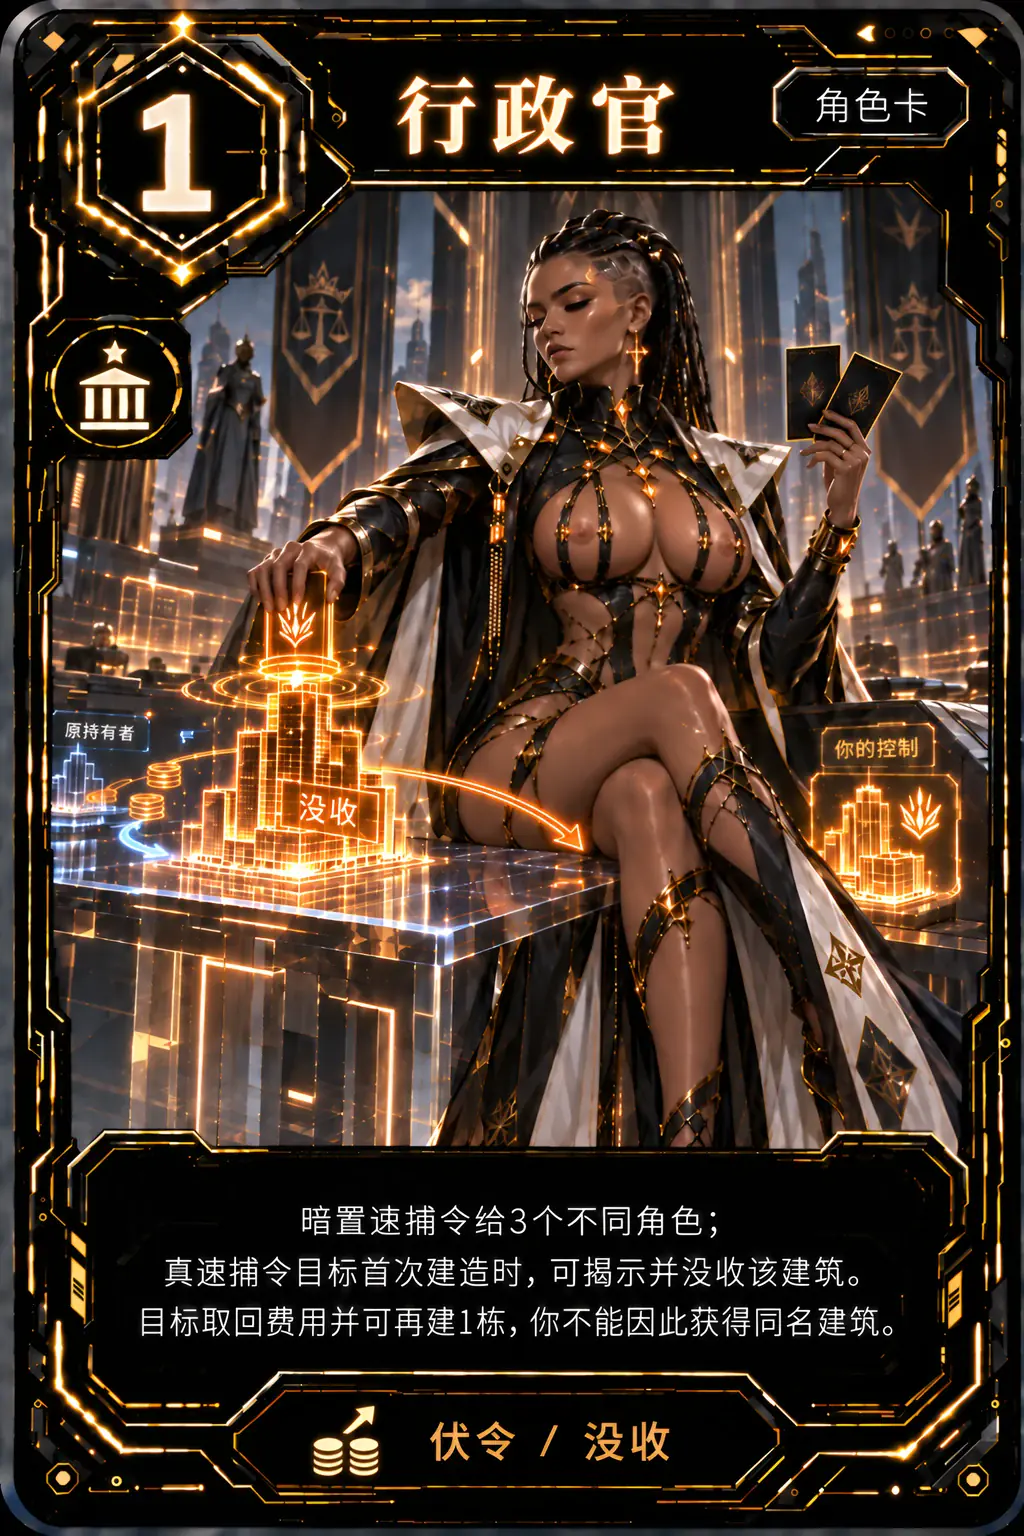
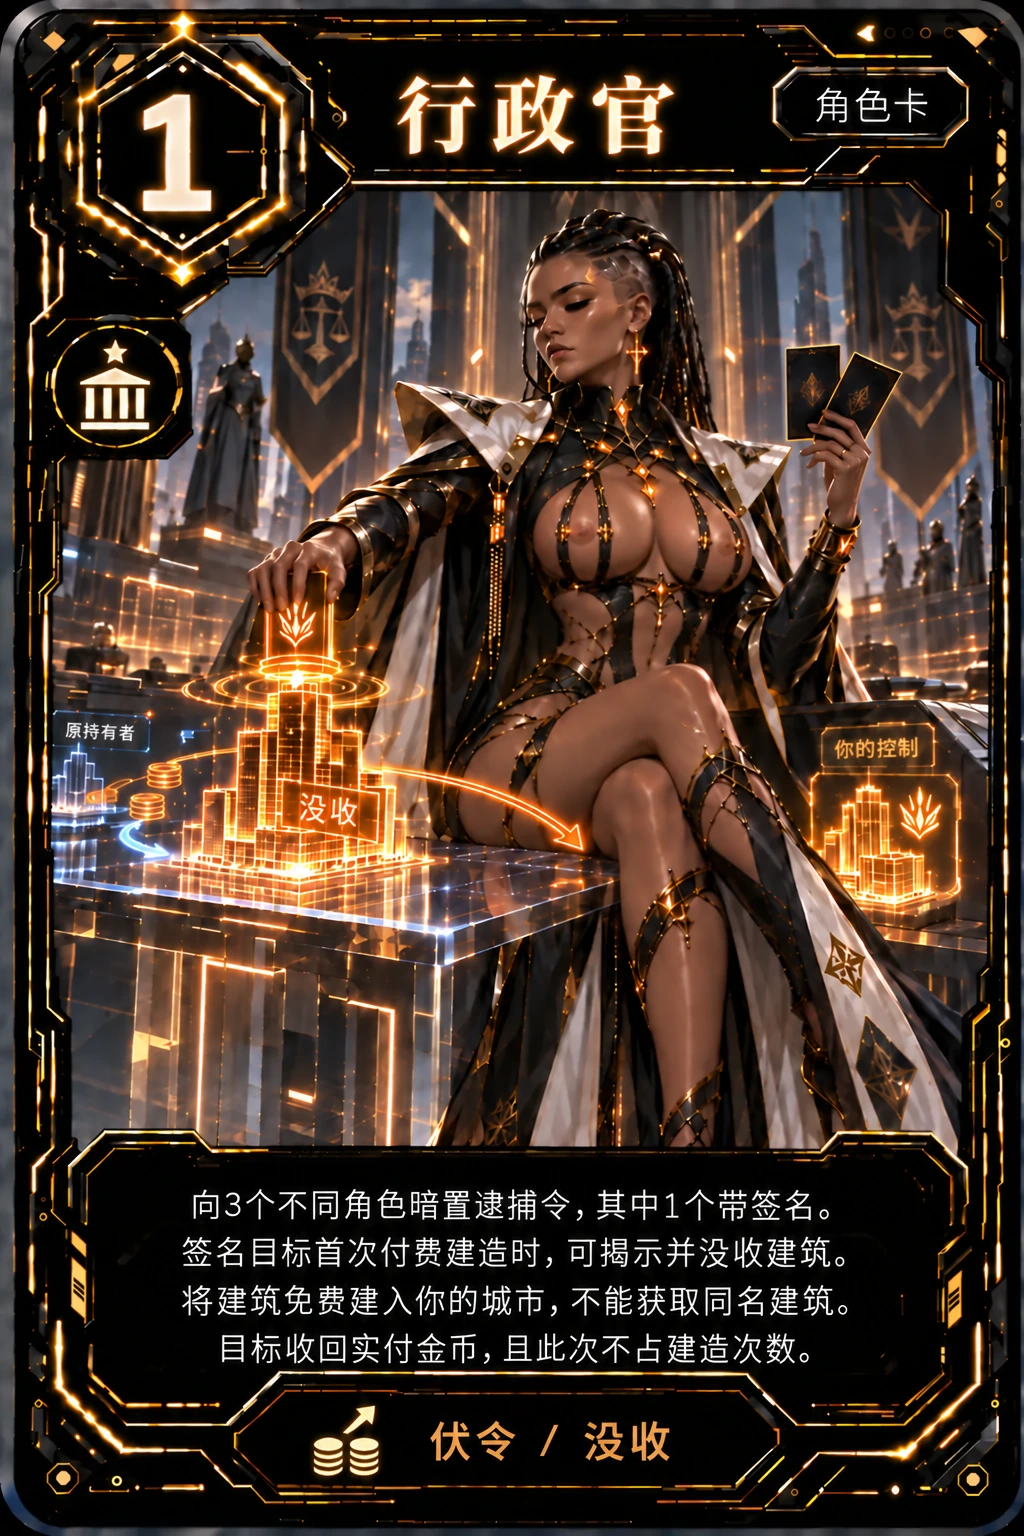
Correct magistrate card artwork rules text

diff --git a/public/themes/neon/manifest.js b/public/themes/neon/manifest.js
@@ -22,6 +22,7 @@
   ];
 
   function variants(folder, key) {
+    const magistrateRules = folder === 'roles' && key === 'magistrate';
     const updatedRules = folder === 'districts' &&
       ['ghost_town', 'laboratory', 'observatory', 'library', 'great_wall', 'quarry'].includes(key);
     // 墓地卡图曾把建造费用 5 错印成能力支付费用 1，多张角色卡已更新；
@@ -43,9 +44,9 @@
                 ? '?v=3'
                 : (versioned ? '?v=2' : ''))))));
     return {
-      thumb: base + folder + '/thumb/' + key + '.webp' + (updatedRules ? '?v=rules-20261010' : version),
+      thumb: base + folder + '/thumb/' + key + '.webp' + (magistrateRules ? '?v=rules-20261012' : updatedRules ? '?v=rules-20261010' : version),
       // Full-resolution artwork was recompressed; version the URL so browser/PWA caches refresh it.
-      full: base + folder + '/full/' + key + '.webp' + (updatedRules ? '?v=rules-20261010' : '?v=optimized-1')
+      full: base + folder + '/full/' + key + '.webp' + (magistrateRules ? '?v=rules-20261012' : updatedRules ? '?v=rules-20261010' : '?v=optimized-1')
     };
   }
 

diff --git a/public/mobile.html b/public/mobile.html
@@ -191,7 +191,7 @@ button{font:inherit} body{background:radial-gradient(circle at 50% -15%,#17335a 
 <!-- 首页 / 单人设置 / 联机大厅：与 PC 端共用同一个组件（public/components/citadels-lobby.js） -->
 <c-citadels-lobby id="lobby" mode="mobile"></c-citadels-lobby>
 
-<script src="./themes/neon/manifest.js?v=12"></script>
+<script src="./themes/neon/manifest.js?v=13"></script>
 <script src="./themes/theme-manager.js?v=4"></script>
 <script src="./src/cards.js?v=6"></script>
 <script src="./mobile-theme.js?v=2"></script>

diff --git a/public/index.html b/public/index.html
@@ -276,7 +276,7 @@
      浏览器只在元素处于文档中时才保证音频持续播放。 -->
 <div id="voice-audio" aria-hidden="true"></div>
 
-<script src="./themes/neon/manifest.js?v=12"></script>
+<script src="./themes/neon/manifest.js?v=13"></script>
 <script src="./themes/theme-manager.js?v=4"></script>
 <script src="./src/cards.js?v=6"></script>
 <script src="./components/citadels-lobby.js?v=8"></script>

diff --git a/docs/card-art-magistrate-20261012.md b/docs/card-art-magistrate-20261012.md
@@ -1,0 +1,30 @@
+# 行政官卡图文字修正（2026-10-12）
+
+使用内置 image_gen 编辑现有卡图，仅替换底部规则文字；保留角色插画、标题、编号、边框和页脚。最终大图为 1024×1536，缩略图为 280×420，均保存为 WebP。
+
+资源：
+
+- `public/assets/themes/neon/cards/roles/full/magistrate.webp`
+- `public/assets/themes/neon/cards/roles/thumb/magistrate.webp`
+
+修正内容：将误写的“速捕令”改为“逮捕令”，明确首次**付费**建造条件；没收后目标收回实付金币，此次建造不占建造次数，而非固定“可再建一栋”。
+
+最终规则文字：
+
+```text
+向3个不同角色暗置逮捕令，其中1个带签名。
+签名目标首次付费建造时，可揭示并没收建筑。
+将建筑免费建入你的城市，不能获取同名建筑。
+目标收回实付金币，且此次不占建造次数。
+```
+
+编辑提示词：
+
+```text
+Use case: text-localization. Edit target: the supplied existing Citadels Magistrate role card, 1024×1536 portrait. Replace ONLY the white Chinese rules text in the black lower rules panel (the panel directly above the orange footer “伏令 / 没收”). Preserve the entire existing illustration, character identity, pose, costume, holographic buildings, gold frame, title 行政官, upper-left numeral 1, 角色卡 label, footer and icons exactly as closely as possible. Completely remove all old rules text in that panel, including the incorrect 速捕令. Insert exactly these four lines of Simplified Chinese, centered, clean and fully legible, matching the existing thin white Chinese typeface; adjust font size and line spacing modestly to fit within the same panel without touching the frame:
+向3个不同角色暗置逮捕令，其中1个带签名。
+签名目标首次付费建造时，可揭示并没收建筑。
+将建筑免费建入你的城市，不能获取同名建筑。
+目标收回实付金币，且此次不占建造次数。
+Ensure exact Chinese characters, especially 逮捕令 and 付费. Keep full card, no cropping, no additional text or marks. This is a rules-text correction for an existing game asset; change nothing outside the lower rules panel. Output opaque image with original 2:3 aspect ratio.
+```
